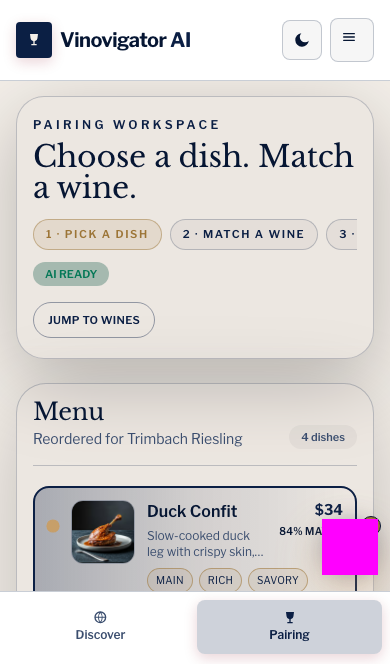
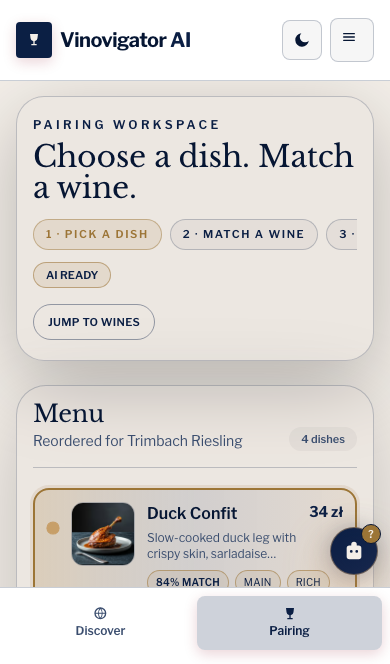
fix(pairing): one colour language across the dish and wine cards
Audit of /pl/pairing against the design system. The wine column carries a
comment saying it mirrors the Menu column, but the light-theme migration
only updated one side, so the two halves of the same screen disagreed:

- SELECTED CARD: the dish used `border-primary` + a `primary/30` wash.
  --color-primary FLIPS to navy in the light theme (it is gold only in
  dark), so the chosen dish rendered as a cold blue-grey card next to the
  chosen wine's warm gold one — same interaction, two colours. The dish now
  uses the wine's exact gold recipe.
- MATCH BADGE: identical data ("96% dopasowania") was a bare uppercase
  string on the left and a gold-bordered pill on the right. Both are pills
  now.
- PRICE: `text-primary` on dishes vs `text-white` on wines — indistinguish-
  able in light, navy-vs-white in dark. Unified on `text-primary`.
- AI STATUS + taste-along "done" used Tailwind amber/emerald. Green and
  amber are not in the palette (navy / cream / gold). Now gold for live,
  a quiet hairline for degraded, paper tint for working.
- WINE PASSPORT + taste-along tiles hardcoded `bg-[#f7f2ea]` and
  `text-[#0b1f44]` (8 + 20 occurrences). The theme toggle is real and
  persists, so in dark mode those stayed bright cream islands on a navy
  page. They now use --surface-input / --ink / --ink-soft and follow the
  theme.

While moving the dish badge to the chip row (where the wine column already
puts it) I dropped the max-w-[45%] price stack: at 320px it left the title
[…]

diff --git a/src/app/[locale]/pairing/PairingClient.tsx b/src/app/[locale]/pairing/PairingClient.tsx
@@ -772,10 +772,10 @@ export default function PairingClient({
                 <span
                   className={`rounded-full px-3 py-1 text-[11px] font-semibold uppercase ${
                     aiStatus === "loading"
-                      ? "bg-white/10 text-gray-300"
+                      ? "bg-[color:var(--paper-tint-strong)] text-[color:var(--ink-muted)]"
                       : aiStatus === "fallback"
-                        ? "bg-amber-900/35 text-amber-300"
-                        : "bg-emerald-900/30 text-emerald-300"
+                        ? "border border-[color:var(--hairline-strong)] text-[color:var(--ink-soft)]"
+                        : "border border-[color:var(--gold-hairline)] bg-[var(--color-accent-gold)]/12 text-primary"
                   }`}
                 >
                   {aiStatus === "loading"
@@ -826,7 +826,7 @@ export default function PairingClient({
                     onClick={() => selectDish(dish.id, "cards")}
                     className={`group flex w-full items-start gap-3 rounded-2xl border-2 px-3 py-3 text-left transition-all duration-300 ${
                       isActive
-                        ? "-translate-y-0.5 border-primary bg-gradient-to-r from-primary/30 via-primary/12 to-white/5 shadow-[0_2px_0_rgba(156,117,54,0.15)]"
+                        ? "-translate-y-0.5 border-[var(--color-accent-gold)] bg-gradient-to-r from-[var(--color-accent-gold)]/22 via-primary/12 to-[var(--color-accent-gold)]/10 shadow-[0_0_0_3px_rgba(156,117,54,0.12),0_2px_0_rgba(156,117,54,0.15)]"
                         : "border-white/8 bg-black/18 opacity-80 hover:border-white/22 hover:opacity-100"
                     }`}
                   >
@@ -860,25 +860,23 @@ export default function PairingClient({
                             {t(dish.description, locale)}
                           </p>
                         </div>
-                        {/* max-w cap keeps the dish title readable at 320px —
-                            the intrinsic width of "96% dopasowania" used to
-                            crush the min-w-0 column to ~8px (audit 2026-07). */}
-                        <div className="max-w-[45%] shrink-0 text-right">
-                          <span className="block text-sm font-bold text-primary sm:text-base">
-                            {dish.price} zł
-                          </span>
-                          {ranking ? (
-                            <span className="mt-1 block text-[10px] font-semibold tracking-wide text-white/70 uppercase">
-                              <span className="sm:hidden">{ranking.score}%</span>
-                              <span className="hidden sm:inline">
-                                {tx("matchPercent", { score: ranking.score })}
-                              </span>
-                            </span>
-                          ) : null}
-                        </div>
+                        {/* Price alone on the right. The match badge used to
+                            stack under it behind a max-w-[45%] cap, which at
+                            320px left the title ~72px — two clipped words. It
+                            now rides the chip row below, exactly where the
+                            wine column puts it, so the top row is title+price
+                            and nothing competes for the narrow width. */}
+                        <span className="shrink-0 text-sm font-bold text-primary sm:text-base">
+                          {dish.price} zł
+                        </span>
                       </div>
 
-                      <div className="mt-2 flex flex-wrap gap-1.5">
+                      <div className="mt-2 flex flex-wrap items-center gap-1.5">
+                        {ranking ? (
+                          <span className="rounded-full border border-[color:var(--gold-hairline)] bg-[var(--color-accent-gold)]/10 px-2 py-1 text-[10px] font-semibold tracking-wide text-primary uppercase shadow-[0_2px_0_rgba(156,117,54,0.15)]">
+                            {tx("matchPercent", { score: ranking.score })}
+                          </span>
+                        ) : null}
                         {dish.tags.map((tag) => (
                           <span
                             key={tag}
@@ -1020,7 +1018,7 @@ export default function PairingClient({
                             {wine.region} • {wine.vintageLabel ?? wine.year}
                           </p>
                         </div>
-                        <span className="shrink-0 text-sm font-bold text-white sm:text-base">
+                        <span className="shrink-0 text-sm font-bold text-primary sm:text-base">
                           {wine.price} zł
                         </span>
                       </div>
@@ -1135,7 +1133,7 @@ export default function PairingClient({
                       {selectedWine.region} • {selectedWine.vintageLabel ?? selectedWine.year}
                     </p>
                     <p className="mt-2 text-sm text-gray-400">{t(selectedWine.description, locale)}</p>
-                    <p className="mt-3 text-sm font-bold text-white">{selectedWine.price} zł</p>
+                    <p className="mt-3 text-sm font-bold text-primary">{selectedWine.price} zł</p>
                   </div>
                 </div>
               </article>
@@ -1265,35 +1263,35 @@ export default function PairingClient({
                   {tx("winePassport")}
                 </p>
                 <div className="mt-4 grid grid-cols-1 gap-2 text-sm sm:grid-cols-2">
-                  <div className="rounded-xl border border-[color:var(--gold-hairline,rgba(156,117,54,0.45))] bg-[#f7f2ea] p-3">
-                    <p className="text-[10px] font-semibold tracking-wider text-[#0b1f44]/75 uppercase">{tx("passport.grape")}</p>
-                    <p className="mt-1 font-serif italic text-[#0b1f44]">{selectedWine.passport.grape}</p>
+                  <div className="rounded-xl border border-[color:var(--gold-hairline,rgba(156,117,54,0.45))] bg-[color:var(--surface-input)] p-3">
+                    <p className="text-[10px] font-semibold tracking-wider text-[color:var(--ink-soft)] uppercase">{tx("passport.grape")}</p>
+                    <p className="mt-1 font-serif italic text-[color:var(--ink)]">{selectedWine.passport.grape}</p>
                   </div>
-                  <div className="rounded-xl border border-[color:var(--gold-hairline,rgba(156,117,54,0.45))] bg-[#f7f2ea] p-3">
-                    <p className="text-[10px] font-semibold tracking-wider text-[#0b1f44]/75 uppercase">{tx("passport.abv")}</p>
-                    <p className="mt-1 font-serif italic text-[#0b1f44]">{selectedWine.passport.abv}%</p>
+                  <div className="rounded-xl border border-[color:var(--gold-hairline,rgba(156,117,54,0.45))] bg-[color:var(--surface-input)] p-3">
+                    <p className="text-[10px] font-semibold tracking-wider text-[color:var(--ink-soft)] uppercase">{tx("passport.abv")}</p>
+                    <p className="mt-1 font-serif italic text-[color:var(--ink)]">{selectedWine.passport.abv}%</p>
                   </div>
-                  <div className="rounded-xl border border-[color:var(--gold-hairline,rgba(156,117,54,0.45))] bg-[#f7f2ea] p-3">
-                    <p className="text-[10px] font-semibold tracking-wider text-[#0b1f44]/75 uppercase">{tx("passport.body")}</p>
-                    <p className="mt-1 font-serif italic text-[#0b1f44]">{tx(`body.${selectedWine.passport.body}`)}</p>
+                  <div className="rounded-xl border border-[color:var(--gold-hairline,rgba(156,117,54,0.45))] bg-[color:var(--surface-input)] p-3">
+                    <p className="text-[10px] font-semibold tracking-wider text-[color:var(--ink-soft)] uppercase">{tx("passport.body")}</p>
+                    <p className="mt-1 font-serif italic text-[color:var(--ink)]">{tx(`body.${selectedWine.passport.body}`)}</p>
                   </div>
-                  <div className="rounded-xl border border-[color:var(--gold-hairline,rgba(156,117,54,0.45))] bg-[#f7f2ea] p-3">
-                    <p className="text-[10px] font-semibold tracking-wider text-[#0b1f44]/75 uppercase">{tx("passport.acidity")}</p>
-                    <p className="mt-1 font-serif italic text-[#0b1f44]">{tx(`acidity.${selectedWine.passport.acidity}`)}</p>
+                  <div className="rounded-xl border border-[color:var(--gold-hairline,rgba(156,117,54,0.45))] bg-[color:var(--surface-input)] p-3">
+                    <p className="text-[10px] font-semibold tracking-wider text-[color:var(--ink-soft)] uppercase">{tx("passport.acidity")}</p>
+                    <p className="mt-1 font-serif italic text-[color:var(--ink)]">{tx(`acidity.${selectedWine.passport.acidity}`)}</p>
                   </div>
-                  <div className="rounded-xl border border-[color:var(--gold-hairline,rgba(156,117,54,0.45))] bg-[#f7f2ea] p-3">
-                    <p className="text-[10px] font-semibold tracking-wider text-[#0b1f44]/75 uppercase">{tx("passport.tannin")}</p>
-                    <p className="mt-1 font-serif italic text-[#0b1f44]">{tx(`tannin.${selectedWine.passport.tannin}`)}</p>
+                  <div className="rounded-xl border border-[color:var(--gold-hairline,rgba(156,117,54,0.45))] bg-[color:var(--surface-input)] p-3">
+                    <p className="text-[10px] font-semibold tracking-wider text-[color:var(--ink-soft)] uppercase">{tx("passport.tannin")}</p>
+                    <p className="mt-1 font-serif italic text-[color:var(--ink)]">{tx(`tannin.${selectedWine.passport.tannin}`)}</p>
                   </div>
-                  <div className="rounded-xl border border-[color:var(--gold-hairline,rgba(156,117,54,0.45))] bg-[#f7f2ea] p-3">
-                    <p className="text-[10px] font-semibold tracking-wider text-[#0b1f44]/75 uppercase">{tx("passport.serve")}</p>
-                    <p className="mt-1 font-serif italic text-[#0b1f44]">{selectedWine.passport.servingTempC}°C</p>
+                  <div className="rounded-xl border border-[color:var(--gold-hairline,rgba(156,117,54,0.45))] bg-[color:var(--surface-input)] p-3">
+                    <p className="text-[10px] font-semibold tracking-wider text-[color:var(--ink-soft)] uppercase">{tx("passport.serve")}</p>
+                    <p className="mt-1 font-serif italic text-[color:var(--ink)]">{selectedWine.passport.servingTempC}°C</p>
                   </div>
                 </div>
 
-                <div className="mt-3 rounded-xl border border-[color:var(--gold-hairline,rgba(156,117,54,0.45))] bg-[#f7f2ea] p-3">
-                  <p className="text-[10px] font-semibold tracking-wider text-[#0b1f44]/75 uppercase">{tx("passport.decant")}</p>
-                  <p className="mt-1 font-serif text-sm italic text-[#0b1f44]">{localizeDecant(selectedWine.passport.decant, locale)}</p>
+                <div className="mt-3 rounded-xl border border-[color:var(--gold-hairline,rgba(156,117,54,0.45))] bg-[color:var(--surface-input)] p-3">
+                  <p className="text-[10px] font-semibold tracking-wider text-[color:var(--ink-soft)] uppercase">{tx("passport.decant")}</p>
+                  <p className="mt-1 font-serif text-sm italic text-[color:var(--ink)]">{localizeDecant(selectedWine.passport.decant, locale)}</p>
                 </div>
               </article>
             </div>
@@ -1319,18 +1317,18 @@ export default function PairingClient({
                   {tx("tasteAlong.open")}
                 </button>
               ) : (
-                <div className="rounded-[28px] border border-[color:var(--gold-hairline,rgba(156,117,54,0.45))] bg-[#f7f2ea] p-5">
+                <div className="rounded-[28px] border border-[color:var(--gold-hairline,rgba(156,117,54,0.45))] bg-[color:var(--surface-input)] p-5">
                   <div className="flex items-start justify-between gap-3">
                     <div className="min-w-0">
-                      <p className="text-[10px] font-semibold tracking-[0.22em] text-[#0b1f44]/75 uppercase">
+                      <p className="text-[10px] font-semibold tracking-[0.22em] text-[color:var(--ink-soft)] uppercase">
                         {tx("tasteAlong.tasting", { wine: t(selectedWine.name, locale) })}
                       </p>
-                      <h3 className="mt-2 font-serif text-xl italic text-[#0b1f44]">
+                      <h3 className="mt-2 font-serif text-xl italic text-[color:var(--ink)]">
                         {METHOD_STEPS[tasteAlongStep].title_pl}
                       </h3>
                     </div>
                     <div className="flex shrink-0 items-center gap-2">
-                      <span className="rounded-full border border-[color:var(--gold-hairline,rgba(156,117,54,0.45))] px-2.5 py-1 text-[10px] font-semibold tracking-wide whitespace-nowrap text-[#0b1f44]/75 uppercase">
+                      <span className="rounded-full border border-[color:var(--gold-hairline,rgba(156,117,54,0.45))] px-2.5 py-1 text-[10px] font-semibold tracking-wide whitespace-nowrap text-[color:var(--ink-soft)] uppercase">
                         {tx("tasteAlong.progress", {
                           current: tasteAlongStep + 1,
                           total: METHOD_STEPS.length,
@@ -1340,7 +1338,7 @@ export default function PairingClient({
                         type="button"
                         onClick={() => setTasteAlongOpen(false)}
                         aria-label={tx("tasteAlong.close")}
-                        className="flex h-8 w-8 items-center justify-center rounded-full text-[#0b1f44]/60 transition hover:text-[#0b1f44]"
+                        className="flex h-8 w-8 items-center justify-center rounded-full text-[color:var(--ink-muted)] transition hover:text-[color:var(--ink)]"
                       >
                         <svg width="12" height="12" viewBox="0 0 14 14" fill="none" aria-hidden>
                           <path d="M2 2L12 12M12 2L2 12" stroke="currentColor" strokeWidth="1.5" strokeLinecap="round" />
@@ -1349,7 +1347,7 @@ export default function PairingClient({
                     </div>
                   </div>
 
-                  <p aria-live="polite" className="mt-3 max-w-2xl text-sm leading-6 text-[#0b1f44]/85">
+                  <p aria-live="polite" className="mt-3 max-w-2xl text-sm leading-6 text-[color:var(--ink)]">
                     {METHOD_STEPS[tasteAlongStep].body_pl}
                   </p>
 
@@ -1358,7 +1356,7 @@ export default function PairingClient({
                       type="button"
                       onClick={() => setTasteAlongStep((step) => Math.max(0, step - 1))}
                       disabled={tasteAlongStep === 0}
-                      className="inline-flex min-h-[36px] items-center rounded-full border border-[#0b1f44]/25 px-3.5 py-1.5 text-[11px] font-semibold tracking-[0.14em] text-[#0b1f44]/70 uppercase transition enabled:hover:border-[#0b1f44]/50 disabled:opacity-40"
+                      className="inline-flex min-h-[36px] items-center rounded-full border border-[color:var(--hairline-strong)] px-3.5 py-1.5 text-[11px] font-semibold tracking-[0.14em] text-[color:var(--ink)]/70 uppercase transition enabled:hover:border-[#0b1f44]/50 disabled:opacity-40"
                     >
                       {tx("tasteAlong.back")}
                     </button>
@@ -1374,7 +1372,7 @@ export default function PairingClient({
                       </button>
                     ) : (
                       <>
-                        <span className="inline-flex min-h-[36px] items-center rounded-full border border-emerald-700/30 bg-emerald-700/10 px-3.5 py-1.5 text-[11px] font-semibold tracking-[0.14em] text-emerald-800 uppercase">
+                        <span className="inline-flex min-h-[36px] items-center rounded-full border border-[color:var(--gold-hairline)] bg-[var(--color-accent-gold)]/10 px-3.5 py-1.5 text-[11px] font-semibold tracking-[0.14em] text-primary uppercase">
                           {tx("tasteAlong.done")}
                         </span>
                         {/* Same wn:open-chat prefill pattern as the